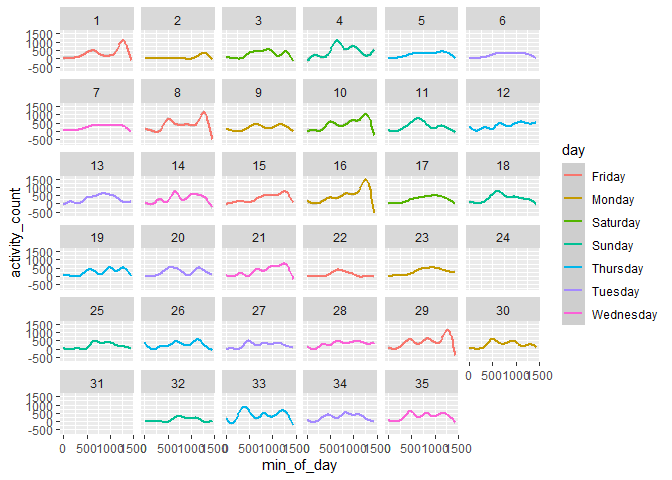
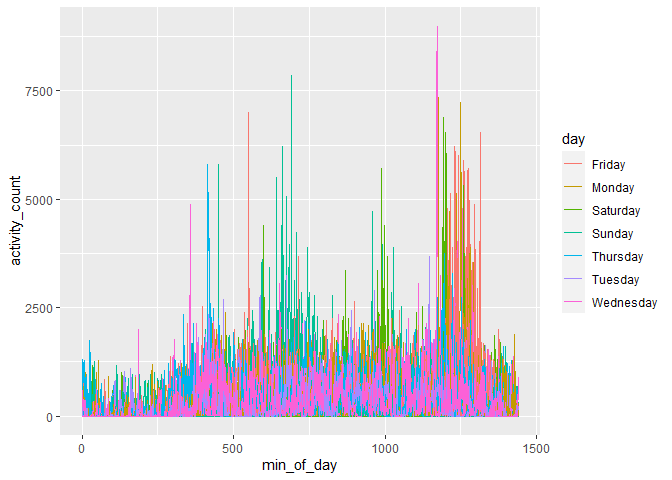
Problem 1: Added data description
Problemt 2:
Corrected the syntax for ggplot

diff --git a/p8105_hw3_slv2129.md b/p8105_hw3_slv2129.md
@@ -49,6 +49,20 @@ data("instacart")
 
 Data description:
 
+This dataset is related to the online grocery service known as the
+Instacart. This dataset consist of more than 3 million orders from a
+large number of users. The dataset consists of information associated
+with the year of 2017. This dataset contains 1384617 observations and
+has the following dimensions: 1384617, 15 (rows, columns). The variable
+associated with this dataset are order\_id, product\_id,
+add\_to\_cart\_order, reordered, user\_id, eval\_set, order\_number,
+order\_dow, order\_hour\_of\_day, days\_since\_prior\_order,
+product\_name, aisle\_id, department\_id, aisle, department. Among these
+variables, product\_name provides information about the name of the
+product and aisle gives details regarding the place where the respective
+products are located. Various aisles belonging to the same category have
+the same department.
+
 *How many aisles are there, and which aisles are the most items ordered
 from?*
 
@@ -242,16 +256,9 @@ in words any patterns or conclusions you can make based on this graph*
 
 ``` r
 accel %>% 
- ggplot(aes(x = min_of_day, y = activity_count)) +
-       geom_smooth(aes(color = day)) +
-       facet_wrap(~day_id)
+ ggplot(aes(x = min_of_day, y = activity_count, color = day)) +
+       geom_line(aes(group = day_id))
 ```
-
-    ## Warning: Computation failed in `stat_smooth()`:
-    ## NA/NaN/Inf in foreign function call (arg 3)
-    
-    ## Warning: Computation failed in `stat_smooth()`:
-    ## NA/NaN/Inf in foreign function call (arg 3)
 
 ![](p8105_hw3_slv2129_files/figure-gfm/unnamed-chunk-8-1.png)<!-- -->
 
